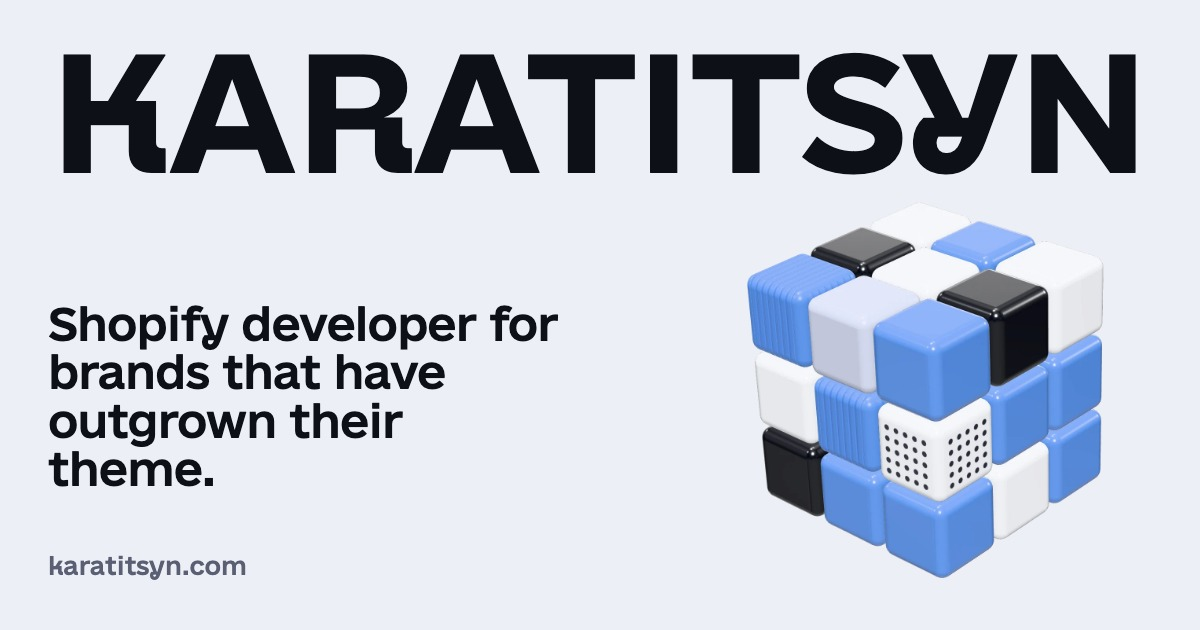
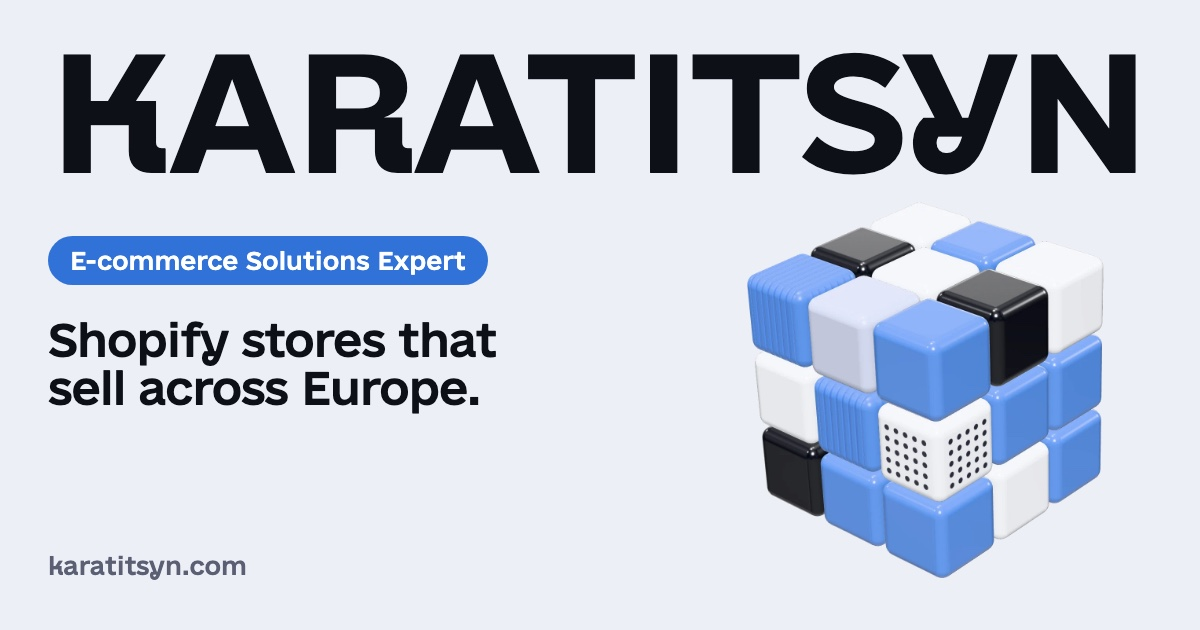
Share preview for the new positioning: og image, og:title and og:description of the home page (search title unchanged)

Changed region(s): [[0.0308, 0.4825, 0.4625, 0.7841], [0.0308, 0.3619, 0.4317, 0.4524]]

diff --git a/scripts/3d/og-image.html b/scripts/3d/og-image.html
@@ -1,18 +1,20 @@
 <!doctype html><html><head><meta charset="utf-8"><style>
-@font-face{font-family:'H';src:url('file:///Users/kirilkaratitsyn/Documents/GitHub/portfolio-astro/public/fonts/e-UkraineHead-Bold.woff2') format('woff2');font-weight:700}
-@font-face{font-family:'H';src:url('file:///Users/kirilkaratitsyn/Documents/GitHub/portfolio-astro/public/fonts/e-UkraineHead-Medium.woff2') format('woff2');font-weight:500}
+@font-face{font-family:'H';src:url('file:///Users/kirilkaratitsyn/Documents/GitHub/portfolio-astro-cta/public/fonts/e-UkraineHead-Bold.woff2') format('woff2');font-weight:700}
+@font-face{font-family:'H';src:url('file:///Users/kirilkaratitsyn/Documents/GitHub/portfolio-astro-cta/public/fonts/e-UkraineHead-Medium.woff2') format('woff2');font-weight:500}
 *{margin:0;box-sizing:border-box}
 body{width:1200px;height:630px;overflow:hidden;background:#EDEFF6;color:#0E1018;position:relative;font-family:H}
 .wmw{position:absolute;left:48px;right:48px;top:44px;container-type:inline-size}
 .wm{display:block;font-weight:700;font-size:14.4cqi;line-height:.82;letter-spacing:-.02em;text-transform:uppercase;white-space:nowrap}
-.claim{position:absolute;left:48px;top:300px;width:520px;font-weight:500;font-size:44px;line-height:1.1;letter-spacing:-.02em}
+.role{position:absolute;left:48px;top:236px;background:#3072d8;color:#fff;border-radius:999px;padding:10px 22px;font-weight:500;font-size:24px}
+.claim{position:absolute;left:48px;top:316px;width:520px;font-weight:500;font-size:44px;line-height:1.1;letter-spacing:-.02em}
 .cube{position:absolute;right:50px;top:160px;width:440px}
 .pill{position:absolute;left:48px;bottom:44px;background:#5b8fe0;color:#fff;border-radius:999px;padding:16px 28px;font-weight:500;font-size:24px}
 .url{position:absolute;left:48px;bottom:50px;font-weight:500;font-size:24px;color:#5a5f73}
 .rib{position:absolute;left:0;bottom:0;width:1200px;height:160px}
 </style></head><body>
 <div class="wmw"><span class="wm">Karatitsyn</span></div>
-<p class="claim">Shopify developer for brands that have outgrown their theme.</p>
-<img class="cube" src="file:///Users/kirilkaratitsyn/Documents/GitHub/portfolio-astro/public/source/3d/cube-1120.webp">
+<span class="role">E-commerce Solutions Expert</span>
+<p class="claim">Shopify stores that sell across Europe.</p>
+<img class="cube" src="file:///Users/kirilkaratitsyn/Documents/GitHub/portfolio-astro-cta/public/source/3d/cube-1120.webp">
 <span class="url">karatitsyn.com</span>
 </body></html>
